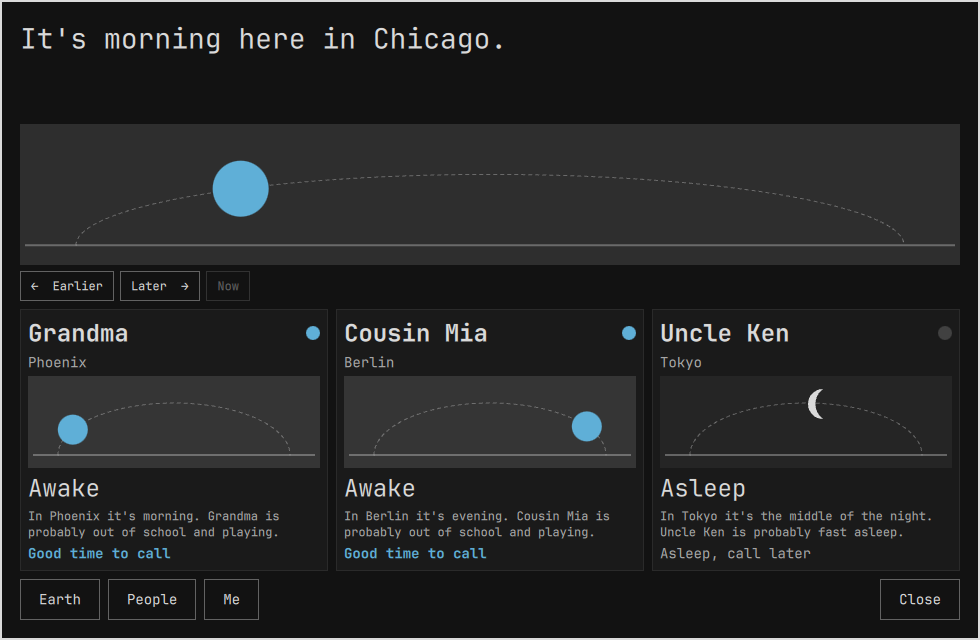
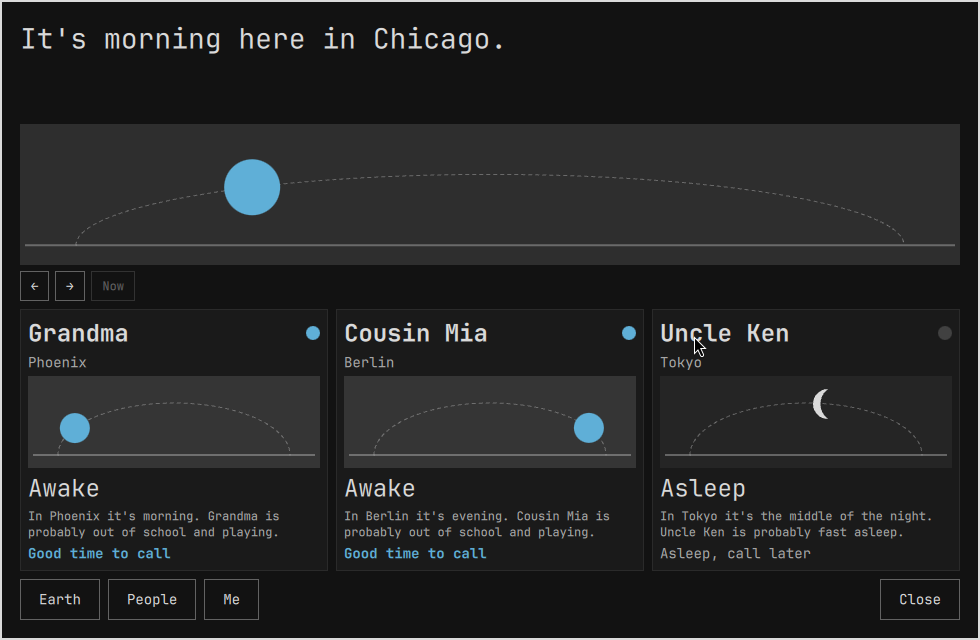
The game keeps score, and the sun moves on arrows
Earlier and Later were two words doing the work of two arrows, on a card
where every other control is already a shape. They are ← and →, on the clock
and on Times on Earth alike; Now still says Now, because an icon for it would
be a guess.

The game had no way to be wrong. The face lit up the moment the hands landed
on the answer and the choices answered back on the first tap, so the way to
win was to keep going until something lit up, which is not reading a clock.
Nothing says anything now until Check is pressed: set the hands or pick a
time, then answer. Check ends the round either way — right adds one to the
run, wrong shows what the time really was and the run goes back to nothing —
and the live "nearly, a little further on" hint is gone with it, because it
was the same giveaway in words.

So the game is how many in a row. The score sits at the top of the round with
the two round buttons, and the best run is written into the settings entry as
bestStreak, so it is still there tomorrow.

Claude-Session: https://claude.ai/code/session_01NM7Hj4ciYhKm8Aio5Eie8D

diff --git a/Overlay.qml b/Overlay.qml
@@ -11,7 +11,7 @@ import "Model.js" as Model
 // the digits on the bands that read them, then a card for each person with
 // their own small sky, what they are probably doing, and whether it is a
 // good time to call. A row of buttons along the bottom does everything:
-// Earlier and Later move the sun an hour, Back to now undoes that, Play
+// The two arrows move the sun an hour, Now undoes that, Play
 // opens the game, Map swaps in the world with its night side on the band
 // that reads maps, Globe shows a globe to turn with well-known places to
 // tap for the time there, People opens the screen where a parent adds and
@@ -433,28 +433,40 @@ Item {
   // ---- the clock game. Two rounds, and both are about the face alone:
   // Set the clock puts a time in words and asks for the hands, Read the clock
   // sets the hands and asks for the time. No sun, no sky, no morning or
-  // afternoon: a dial says none of those, and pretending it did was what made
-  // the old round confusing.
+  // afternoon: a dial says none of those.
+  //
+  // Nothing says whether the answer is right until Check is pressed. A face
+  // that lights up the moment the hands land turns the game into turning the
+  // hands until it lights up, which is not reading a clock. One press, one
+  // answer, and the score is how many in a row.
   property bool playing: false
   property string gameMode: "set"     // set or read
   property var currentRound: null
   property int hands: 0
   property int chosen: -1
+  property bool checked: false
+  property bool wasRight: false
+  property int streak: 0
+
   readonly property var game: playing && currentRound && currentRound.mode === "set"
     ? Model.gameView(currentRound, hands) : null
-  readonly property bool solved: {
-    if (!playing || !currentRound) return false
-    if (currentRound.mode === "read") return chosen >= 0 && currentRound.choices[chosen].right
-    return game ? game.solved : false
-  }
-  readonly property bool wrongPick: playing && currentRound && currentRound.mode === "read"
-    && chosen >= 0 && !currentRound.choices[chosen].right
+  readonly property bool solved: checked && wasRight
+  // The best run so far, kept with the rest of the settings so it is still
+  // there tomorrow.
+  readonly property int bestStreak: clock ? Math.max(0, parseInt(Model.setting(clock.config, "bestStreak", 0), 10) || 0) : 0
+  readonly property bool canCheck: playing && !checked
+    && (gameMode === "read" ? chosen >= 0 : !!currentRound)
   readonly property string otherMode: gameMode === "set" ? "read" : "set"
   readonly property string otherModeName: gameMode === "set" ? "Read the clock" : "Set the clock"
-  // The band's own step: quarter hours while "half past" is still new, five
-  // minutes once it is not.
   readonly property int gameStep: rules && rules.gameStep > 0 ? rules.gameStep : 5
   readonly property string stepWords: gameStep === 15 ? "15 minutes" : gameStep + " minutes"
+
+  // What the round says once it has been answered: right, or what it was.
+  readonly property string verdict: {
+    if (!playing || !currentRound || !checked) return ""
+    if (wasRight) return currentRound.solvedSentence
+    return "Not this time. It was " + currentRound.words + "."
+  }
 
   function beginRound(mode) {
     if (!clock) return
@@ -463,6 +475,8 @@ Item {
     currentRound = Model.gameRound(gameMode, clock.rules, clock.hourFormat, null, previous)
     hands = currentRound.startHands
     chosen = -1
+    checked = false
+    wasRight = false
   }
 
   function startGame(mode) {
@@ -471,8 +485,23 @@ Item {
     showEarth = false
     showPeople = false
     showMe = false
+    streak = 0
     beginRound(mode || gameMode)
     playing = true
+  }
+
+  // The one press that decides the round. A wrong one ends the run; a right
+  // one adds to it, and a new best is written down.
+  function checkAnswer() {
+    if (!canCheck) return
+    var right = currentRound.mode === "read"
+      ? (chosen >= 0 && currentRound.choices[chosen].right)
+      : (!!game && game.solved)
+    checked = true
+    wasRight = right
+    if (!right) { streak = 0; return }
+    streak = streak + 1
+    if (streak > bestStreak) persistSettings({ bestStreak: streak })
   }
 
   function switchGameMode() {
@@ -482,12 +511,11 @@ Item {
   function nextRound() { beginRound(gameMode) }
 
   function turn(deltaMinutes) {
-    if (playing && currentRound && currentRound.mode === "set") hands = hands + deltaMinutes
+    if (playing && !checked && currentRound && currentRound.mode === "set") hands = hands + deltaMinutes
   }
 
   function pickTime(index) {
-    if (!playing || !currentRound || currentRound.mode !== "read") return
-    if (solved) return
+    if (!playing || !currentRound || currentRound.mode !== "read" || checked) return
     chosen = index
   }
 
@@ -495,6 +523,8 @@ Item {
     playing = false
     currentRound = null
     chosen = -1
+    checked = false
+    wasRight = false
   }
 
 
@@ -512,8 +542,6 @@ Item {
     Qt.callLater(function() { keyCatcher.forceActiveFocus() })
   }
 
-  // Every way out lands on the clock next time: the shell's own hide (the
-  // bar chip, a keybinding built on toggle) as much as Escape or Close.
   // What Back means on each screen: one step out, never a jump. Inside the
   // add flow it walks back through the questions before leaving the list.
   function stepBack() {
@@ -1240,8 +1268,8 @@ Item {
   // thing they move, not down in the navigation.
   component SunRow: Row {
     spacing: Style.spacing.md
-    ActionButton { compact: true; text: "←  Earlier"; onClicked: if (root.clock) root.clock.scrub(-60) }
-    ActionButton { compact: true; text: "Later  →"; onClicked: if (root.clock) root.clock.scrub(60) }
+    ActionButton { compact: true; text: "←"; onClicked: if (root.clock) root.clock.scrub(-60) }
+    ActionButton { compact: true; text: "→"; onClicked: if (root.clock) root.clock.scrub(60) }
     ActionButton {
       compact: true
       primary: root.scrubbing
@@ -1358,7 +1386,8 @@ Item {
             }
           } else if (event.key === Qt.Key_Return || event.key === Qt.Key_Enter) {
             if (root.playing) {
-              if (root.solved) root.nextRound()
+              if (root.checked) root.nextRound()
+              else root.checkAnswer()
             } else if (toolbar.onClock) {
               root.startGame()
             }
@@ -1372,7 +1401,7 @@ Item {
             event.accepted = true
           } else if (event.key === Qt.Key_0 || event.key === Qt.Key_Home || event.key === Qt.Key_Space) {
             if (root.playing) {
-              if (root.solved && event.key === Qt.Key_Space) root.nextRound()
+              if (root.checked) root.nextRound()
               else if (root.currentRound) root.hands = root.currentRound.startHands
             } else if (root.clock) {
               root.clock.resetScrub()
@@ -2411,7 +2440,7 @@ Item {
             minutesOfDay: gameArea.reading
               ? (root.currentRound ? root.currentRound.shownMinutes : 0)
               : (root.game ? root.game.minutesOfDay : 0)
-            solved: root.solved
+            solved: root.checked && root.wasRight
           }
 
           Column {
@@ -2439,16 +2468,23 @@ Item {
               }
               ActionButton {
                 compact: true
-                visible: root.gameMode === "set" && !root.solved
+                visible: root.gameMode === "set" && !root.checked
                 text: "Start again"
                 onClicked: if (root.currentRound) root.hands = root.currentRound.startHands
               }
-              ActionButton {
-                compact: true
-                visible: root.solved
-                text: "Another one  →"
-                onClicked: root.nextRound()
-              }
+            }
+
+            // How the run is going. The best is kept with the settings, so it
+            // is still there next time.
+            Text {
+              width: parent.width
+              textFormat: Text.PlainText
+              text: (root.streak === 1 ? "1 right in a row" : root.streak + " right in a row")
+                + (root.bestStreak > 0 ? "  ·  best " + root.bestStreak : "")
+              color: root.streak > 0 ? root.sunColor : root.quiet
+              font.family: root.fontFamily
+              font.pixelSize: Style.font.title
+              font.bold: root.streak > 0
             }
 
             Text {
@@ -2479,29 +2515,35 @@ Item {
               width: parent.width
               textFormat: Text.PlainText
               text: !root.currentRound ? ""
-                : (root.solved ? root.currentRound.solvedSentence
-                  : (root.wrongPick ? "Not that one. Look at the short hand first: which numeral has it just gone past?"
-                    : root.currentRound.task))
-              color: root.solved ? root.sunColor : root.quiet
+                : (root.checked ? root.verdict : root.currentRound.task)
+              color: !root.checked ? root.quiet : (root.wasRight ? root.sunColor : root.foreground)
               font.family: root.fontFamily
               font.pixelSize: Style.font.heading
               wrapMode: Text.WordWrap
               Behavior on color { ColorAnimation { duration: 300 } }
             }
 
-            // Set the clock: how far off the hands are, in words.
-            Text {
-              width: parent.width
-              visible: !gameArea.reading && text !== ""
-              textFormat: Text.PlainText
-              text: !root.game || root.solved ? "" : root.game.hint
-              color: root.foreground
-              font.family: root.fontFamily
-              font.pixelSize: Style.font.heading
-              wrapMode: Text.WordWrap
+            Item { width: 1; height: Style.spacing.md }
+
+            // One press decides the round, and then the next one.
+            Row {
+              spacing: Style.spacing.lg
+              ActionButton {
+                visible: !root.checked
+                primary: true
+                enabled: root.canCheck
+                text: "Check"
+                onClicked: root.checkAnswer()
+              }
+              ActionButton {
+                visible: root.checked
+                primary: true
+                text: "Another one  →"
+                onClicked: root.nextRound()
+              }
             }
 
-            Item { width: 1; height: Style.spacing.lg }
+            Item { width: 1; height: Style.spacing.md }
 
             // Set the clock: four buttons that turn the hands.
             Row {
@@ -2531,17 +2573,20 @@ Item {
                   required property int index
                   readonly property var choice: root.currentRound.choices[index]
                   readonly property bool picked: root.chosen === index
-                  readonly property bool correct: picked && choice.right
-                  readonly property bool mistaken: picked && !choice.right
+                  // Before Check, a tap only marks the choice. After it, the
+                  // right one is named whether or not it was the one tapped.
+                  readonly property bool correct: root.checked && choice.right
+                  readonly property bool mistaken: root.checked && picked && !choice.right
                   width: choiceGrid.cellW
                   height: Style.space(76)
                   radius: root.cornerRadius
                   color: correct ? Util.alpha(root.sunColor, 0.22)
-                    : (mistaken ? Util.alpha(root.foreground, 0.10) : Util.alpha(root.foreground, 0.05))
+                    : (picked ? Color.menu.selectedBackground : Util.alpha(root.foreground, 0.05))
                   border.width: Math.max(2, Style.space(2))
                   border.color: correct ? root.sunColor
-                    : (mistaken ? Util.alpha(root.foreground, 0.30) : Util.alpha(root.foreground, 0.18))
-                  opacity: root.solved && !correct ? 0.4 : 1
+                    : (mistaken ? root.foreground
+                      : (picked ? Util.alpha(root.sunColor, 0.8) : Util.alpha(root.foreground, 0.18)))
+                  opacity: root.checked && !correct && !picked ? 0.4 : 1
                   Behavior on color { ColorAnimation { duration: 160 } }
                   Behavior on opacity { NumberAnimation { duration: 160 } }
 

diff --git a/README.md b/README.md
@@ -14,7 +14,7 @@ back an hour at a time, so a child can watch it become bedtime in Tokyo.
 ![The big clock on the Explorer face, Tokyo Night theme](preview.png)
 
 Before anyone is added there is still a clock: home fills the card, its own
-sky and, on the bands that have one, a full-size face. Earlier and Later move
+sky and, on the bands that have one, a full-size face. The arrows move
 that sun, and the game needs nobody at all.
 
 From the second band an analog face sits beside the digits, showing the same
@@ -52,7 +52,7 @@ The age band is a parent setting. Each band adds to the one before.
 One screen, two ways of looking: a globe on every band, and on the Navigator
 band a flat map of the world as well. Both show the same thing — where the sun
 is right now, who is in the night, and what time it is there — and the switch
-between them is at the top of the screen, beside Earlier and Later.
+between them is at the top of the screen, beside the arrows that move the sun.
 
 ### The globe
 
@@ -65,8 +65,8 @@ freely, and Find home brings it back. Tapping any dot names the place and says
 the time there: the digits and "tomorrow" on the bands that read them, the
 time in words ("It's about five to twelve in the morning"), the sky there, and
 what a child there is probably doing, which is the family's own routine moved
-to that place, the same honest guess the cards make. Earlier and Later move
-the sun here too, and the night sweeps round the globe as it goes.
+to that place, the same honest guess the cards make. The arrows move the sun
+here too, and the night sweeps round the globe as it goes.
 
 ### The flat map
 
@@ -76,11 +76,11 @@ and the fifty well-known cities — as dots to tap, and a line under the map
 says what time it is at the one you tapped.
 
 The top of the screen does not change when the view does: the same title, the
-same switch, the same Earlier, Later and Now. Only the world below it is drawn
+same switch, the same arrows and Now. Only the world below it is drawn
 differently. The shade is the real one for the shown instant, worked
 out from the sun's declination and Greenwich solar noon, so it leans towards
-one pole in December and the other in June, and it sweeps west as Earlier
-and Later move the sun. A sun marks where the sun is straight overhead, a moon
+one pole in December and the other in June, and it sweeps west as the arrows
+move the sun. A sun marks where the sun is straight overhead, a moon
 where it is the middle of the night, a ring marks home and a dot each
 person, with their time beside it. It is a flat map rather than a globe on
 purpose: it hides no hemisphere, and the shade crossing a continent is the
@@ -182,6 +182,7 @@ omarchy-shell shell setBarWidget ignibyte.kids-clock people '"Grandma=Phoenix; N
 | `homeCity` | blank | What home is called, as free text, edited on the Me screen. Blank uses the city that matches the system time zone. A city from the built-in list also places home on the map and the globe and gives its sky the right sunrise; anything else is only the name. Home's clock follows the system time zone either way |
 | `wakeTime`, `schoolStart`, `schoolEnd`, `dinnerTime`, `bedTime` | `07:00`, `08:30`, `15:00`, `18:00`, `20:00` | The family routine. "Uncle Ken is probably at school" means the child's own routine moved to Tokyo, which is honest and personal rather than a guess about another country |
 | `hourFormat` | `12` | `12` or `24`, for the bands that show digits |
+| `bestStreak` | none | The longest run of right answers in the game. The game writes it; there is no reason to set it by hand, and deleting it starts the best again |
 
 Names never leave the machine. Nothing about a child is collected.
 
@@ -198,8 +199,8 @@ it and always means one step out; `Close` is always on the right. A button in
 that row never also changes what is on the screen.
 
 What the screen you are on can *do* sits on that screen, next to the thing it
-acts on. Earlier and Later are under the sky whose sun they move. The game's
-round switch and Another one are at the top of the round. The globe and the
+acts on. The two arrows that move the sun are under the clock they move. The
+game's round switch, its score and its Check are at the top of the round. The globe and the
 flat map are switched from the top of Times on Earth. Next and Save sit beside
 the field they finish.
 
@@ -214,10 +215,11 @@ the field they finish.
 
 | On the screen | Does |
 |---|---|
-| Earlier, Later, Now | move the sun an hour, and put it back. On the clock they sit under the face, which is the thing they move; at the top of Times on Earth otherwise. All three are always there, so the row never shifts under a hand |
+| ←, →, Now | move the sun an hour, and put it back. On the clock they sit under the face, which is the thing they move; at the top of Times on Earth otherwise. All three are always there, so the row never shifts under a hand |
 | Globe, Flat map | the two ways of looking at Times on Earth (the flat map is navigator) |
 | Find home | turns the globe back to home; it sits between the two buttons that turn it |
 | Set the clock, Read the clock | the two rounds of the game |
+| Check | answers the round: right adds one to the run, wrong ends it |
 | Start again, Another one | put the hands back where they began, and take a new round |
 | Next, Save | finish the question the field is asking |
 | Remove | on a person's row, asks once |
@@ -252,7 +254,7 @@ toy clock reset (at nine when the answer is twelve itself), so the hour goes
 first and then the minutes. The hour hand is geared to the minute hand, so
 half past shows it halfway to the next numeral, which is the thing children
 find hardest about a real clock. Four round buttons turn the hands an hour or
-a step either way, and a line says which way to go and how close it is.
+a step either way.
 
 **Read the clock** does it the other way round: the hands are already set, and
 four times are offered. The three wrong ones are the mistakes a child actually
@@ -262,6 +264,18 @@ the wrong way round — so a guess that lands is a guess that was read.
 ![The set-the-clock round](preview-game.png)
 
 ![The read-the-clock round](preview-read.png)
+
+### One press, one answer
+
+Nothing says whether the answer is right until **Check** is pressed. A face
+that lit up the moment the hands landed made the game "turn the hands until it
+lights up", which is not reading a clock; so does a list of times that answers
+back on the first tap. Set the hands, or pick a time, then Check.
+
+Check ends the round either way. A right answer adds one to the run; a wrong
+one shows what the time really was and the run goes back to nothing. The score
+line says how many are right in a row and the best run so far, and the best is
+kept with the settings, so it is still there tomorrow.
 
 The time is random each round and never the same twice running. The band sets
 how fine it is: quarter hours while "half past" and "quarter to" are still
